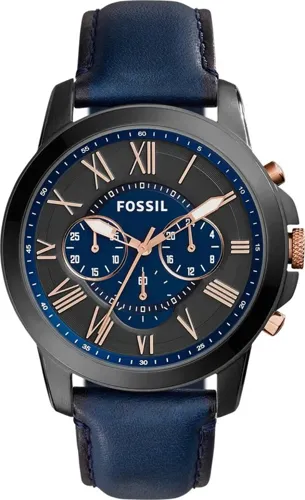
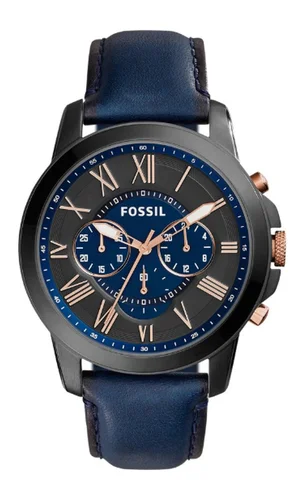
Nieuwe foto's Fossil Minimalist en Grant; README bijgewerkt
Claude-Session: https://claude.ai/code/session_014hCdRwFh3Gb6k4dNokQqAr

diff --git a/assets/js/producten.js b/assets/js/producten.js
@@ -538,7 +538,7 @@ window.LK_PRODUCTEN = [
 
   /* ===== Ronde 31: Horloges en sieraden voor hem (bol, Ditverzinjeniet) (goedgekeurd door Marius, 20-10-2026) ===== */
   {"id": "bol-9200000101456379", "titel": "Casio herenhorloge met blauwe wijzerplaat (38 mm, staal)", "prijs": 54.3, "shop": "bol", "url": "https://partner.bol.com/click/click?t=url&s=1545784&f=txl&name=LeukeKeuze&url=https%3A%2F%2Fwww.bol.com%2Fnl%2Fnl%2Fp%2Fcasio-casio-collection-mtp-1302pd-2avef-horloge-staal-zilverkleurig-o-38-mm%2F9200000101456379%2F", "winkelUrl": "https://www.bol.com/nl/nl/p/casio-casio-collection-mtp-1302pd-2avef-horloge-staal-zilverkleurig-o-38-mm/9200000101456379/", "beeld": "images/producten/bol-9200000101456379", "cat": "mode-beauty", "sub": "horloges", "ookIn": ["cadeaus/voor-hem", "cadeaus/kerst"], "voor": ["hem"], "moment": ["verjaardag", "kerst"], "waarom": "Klassiek stalen herenhorloge met een mooie blauwe wijzerplaat en datum. Kan tegen een regenbui en de douche. Meer dan 30 klanten geven het een 4,9 uit 5.", "status": "goedgekeurd", "nieuw": true, "gecontroleerd": "2026-10-20"},
-  {"id": "bol-9200000118422706", "titel": "Fossil Grant chronograaf, zwart (44 mm, leren band)", "prijs": 94.4, "shop": "bol", "url": "https://partner.bol.com/click/click?t=url&s=1545784&f=txl&name=LeukeKeuze&url=https%3A%2F%2Fwww.bol.com%2Fnl%2Fnl%2Fp%2Ffossil-grant-fs5061-herenhorloge-44-mm-zwart%2F9200000118422706%2F", "winkelUrl": "https://www.bol.com/nl/nl/p/fossil-grant-fs5061-herenhorloge-44-mm-zwart/9200000118422706/", "beeld": "images/producten/bol-9200000118422706", "cat": "mode-beauty", "sub": "horloges", "ookIn": ["cadeaus/voor-hem", "cadeaus/kerst"], "voor": ["hem"], "moment": ["verjaardag", "kerst"], "waarom": "Stoer zwart horloge met Romeinse cijfers, stopwatch en een leren band. Een echte klassieker van Fossil, nu 16% goedkoper. Klanten geven het een 4,6 uit 5.", "status": "goedgekeurd", "nieuw": true, "gecontroleerd": "2026-10-20"},
+  {"id": "bol-9200000118422706", "titel": "Fossil Grant chronograaf, zwart met blauw (44 mm, leren band)", "prijs": 94.4, "shop": "bol", "url": "https://partner.bol.com/click/click?t=url&s=1545784&f=txl&name=LeukeKeuze&url=https%3A%2F%2Fwww.bol.com%2Fnl%2Fnl%2Fp%2Ffossil-grant-fs5061-herenhorloge-44-mm-zwart%2F9200000118422706%2F", "winkelUrl": "https://www.bol.com/nl/nl/p/fossil-grant-fs5061-herenhorloge-44-mm-zwart/9200000118422706/", "beeld": "images/producten/bol-9200000118422706", "cat": "mode-beauty", "sub": "horloges", "ookIn": ["cadeaus/voor-hem", "cadeaus/kerst"], "voor": ["hem"], "moment": ["verjaardag", "kerst"], "waarom": "Stoer horloge met een zwarte kast, blauwe wijzerplaat, Romeinse cijfers, stopwatch en een blauwe leren band. Een echte klassieker van Fossil, nu 16% goedkoper. Klanten geven het een 4,6 uit 5.", "status": "goedgekeurd", "nieuw": true, "gecontroleerd": "2026-10-20"},
   {"id": "bol-9200000076851367", "titel": "Fossil The Minimalist, plat horloge met bruine leren band", "prijs": 77.94, "shop": "bol", "url": "https://partner.bol.com/click/click?t=url&s=1545784&f=txl&name=LeukeKeuze&url=https%3A%2F%2Fwww.bol.com%2Fnl%2Fnl%2Fp%2Ffossil-the-minimalist-fs5304-herenhorloge-44-mm-zilverkleurig%2F9200000076851367%2F", "winkelUrl": "https://www.bol.com/nl/nl/p/fossil-the-minimalist-fs5304-herenhorloge-44-mm-zilverkleurig/9200000076851367/", "beeld": "images/producten/bol-9200000076851367", "cat": "mode-beauty", "sub": "horloges", "ookIn": ["cadeaus/voor-hem"], "voor": ["hem"], "moment": ["verjaardag", "kerst"], "waarom": "Strak en dun herenhorloge met een rustige wijzerplaat en een bruine leren band. Past bij een spijkerbroek én bij een pak. Nu 18% goedkoper.", "status": "goedgekeurd", "nieuw": true, "gecontroleerd": "2026-10-20"},
   {"id": "bol-9200000089433329", "titel": "Tommy Hilfiger sportief herenhorloge, blauw (46 mm)", "prijs": 119.0, "shop": "bol", "url": "https://partner.bol.com/click/click?t=url&s=1545784&f=txl&name=LeukeKeuze&url=https%3A%2F%2Fwww.bol.com%2Fnl%2Fnl%2Fp%2Ftommy-hilfiger-heren-horloge-1791476-multi%2F9200000089433329%2F", "winkelUrl": "https://www.bol.com/nl/nl/p/tommy-hilfiger-heren-horloge-1791476-multi/9200000089433329/", "beeld": "images/producten/bol-9200000089433329", "cat": "mode-beauty", "sub": "horloges", "ookIn": ["cadeaus/voor-hem"], "voor": ["hem"], "moment": ["verjaardag", "kerst"], "waarom": "Sportief horloge van Tommy Hilfiger met een blauwe wijzerplaat, datum en een stevige rubberen band. Met 2 jaar garantie. Klanten geven het een 4,5 uit 5.", "status": "goedgekeurd", "nieuw": true, "gecontroleerd": "2026-10-20"},
   {"id": "bol-9300000047747066", "titel": "Herenarmband van leer en tijgeroog-stenen (22 cm)", "prijs": 34.95, "shop": "bol", "url": "https://partner.bol.com/click/click?t=url&s=1545784&f=txl&name=LeukeKeuze&url=https%3A%2F%2Fwww.bol.com%2Fnl%2Fnl%2Fp%2Fvictorious-leren-natuurstenen-armband-heren-zwart-leer-en-tijgeroog-natuurstenen-zwart-bruin-22cm%2F9300000047747066%2F", "winkelUrl": "https://www.bol.com/nl/nl/p/victorious-leren-natuurstenen-armband-heren-zwart-leer-en-tijgeroog-natuurstenen-zwart-bruin-22cm/9300000047747066/", "beeld": "images/producten/bol-9300000047747066", "cat": "mode-beauty", "sub": "sieraden", "ookIn": ["cadeaus/voor-hem"], "voor": ["hem"], "moment": ["verjaardag", "kerst"], "waarom": "Stoere armband van zwart leer met bruine natuurstenen en een sluiting van roestvrij staal. Klanten geven hem een 4,6 uit 5.", "letOp": "Ook te koop in 18,5 en 20,5 cm. Kies de juiste maat bij de winkel.", "status": "goedgekeurd", "nieuw": true, "gecontroleerd": "2026-10-20"},

diff --git a/README.md b/README.md
@@ -110,6 +110,8 @@ Tot een plaatje er is, toont de site een gouden icoon. Plaatje toevoegen = besta
 - Ronde 47 (21-10-2026): 16 producten: 10 kerstdecoratie/kaarsen (La Redoute, Dille & Kamille) en 6 Teufel.
 - Herkeuring 3 schoenen (21-10-2026): 6 afgekeurd en verwijderd (3 pantoffels van Birkenstock/Ralph Lauren, 3 Dr. Martens loafers/instappers).
 - Ronde 48 (21-10-2026): 20 cadeaus onder 10 euro (Dille & Kamille, Dropwinkel); 2 kersthangers afgekeurd.
+- Zoeken in alle winkels (21-10-2026): assets/zoek/winkels.json (gemaakt door scripts/maak-zoekindex.py uit de Daisycon-feeds, zonder Mijn Hummeltje). Zoekpagina toont eerst '★ Door ons gekozen', dan 'Meer in onze winkels' (niet gekeurd) en een knop om op bol te zoeken. Elke nacht bijgewerkt door scripts/nachtelijk.py via de Taakplanner op de laptop.
+- Fossil Minimalist en Grant (21-10-2026): nieuwe foto's van Marius; Grant-titel aangepast naar zwart met blauw.
 - Categorievolgorde (20-10-2026): Cadeaus, Speelgoed, Wonen, Hobby, Elektronica, Mode, Keuken, Eten, Tuin, Sport, Dieren, Boeken, Christelijk (achteraan, niet meer uitgelicht). Knoppen lichter gemaakt (--knop-bg).
 - Regel (20-10-2026, Marius): christelijke producten staan alleen in de categorie Christelijke cadeaus. Afgedwongen in hoortBij (gedeeld.js) en in home-lijstjes, VONK en "misschien ook leuk" (app.js). Zoeken vindt ze wel.
 - Herindeling (20-10-2026, goedgekeurd door Marius): nieuwe subs Adventskalenders, Baby & kraam (Cadeaus), Kaart- & dobbelspellen, Huisgeuren, Keukenapparaten (gasstellen), Horloges, Rugzakken & reistassen, Drop & snoep, Agenda's & notitieboeken. Hernoemd: Films & series → Filmavond, Tassen → Hand- & schoudertassen, Kaarsen & geur → Kaarsen & kandelaars, Chocolade & snoep → Chocolade, Pakketten → Pakketten & borrel, Knutselen → Knutselen voor kinderen / Zelf maken. Lege subs (bv. Met naam) worden automatisch verborgen. Nieuwe subs hebben nog geen plaatje (gouden icoon) tot Nova ze maakt: images/sub/sub-<cat>-<sub>.webp, 600x600. La Redoute-foto's staan nu lokaal.
